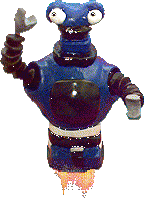
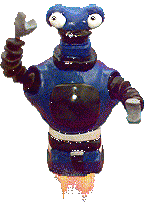
Fidelity fixes from app feedback: bird, hand, robot, wiggle, floor
- Bird at rest is now MORP01 (standing), not a FLY* (flight) frame.
- Hand default points with the leftmost finger (hotspot 0.24w/0.17h),
  arm re-aimed to the wrist from the new anchor; grab pose on press kept.
- Robot wait frames baked pre-aligned to a uniform canvas via each frame's
  registration offset, so the robot no longer shifts/scales while fidgeting
  (anchor stored in the anim spec).
- Selection wiggle now targets the specific node under the hand — a number
  in a box hole or an item on a nest wiggles on its own, not the whole
  container (BoxView.holeNode / NestView.item).
- Floor: hook the renderer 'resize' so it always fills the canvas.

Still limited: the magic wand uses the low-res M22 LEGOWAND (no M25
version); a full context-driven hand state machine is future work.

79 tests pass; typecheck clean.

diff --git a/src/input/drag-controller.ts b/src/input/drag-controller.ts
@@ -28,6 +28,13 @@ import { renderThingDisplay } from '../view/display';
 export type DropResolver = (dragged: Thing, target: Thing | undefined, ctx: DropContext) => void;
 export type TrainStep = (from: number, to: number) => void;
 
+/** A node that's wiggling for selection feedback, plus its resting position. */
+interface WiggleTarget {
+  node: PIXI.Container;
+  bx: number;
+  by: number;
+}
+
 export class DragController {
   private dragging: ThingView | null = null;
   private grabOffset = { x: 0, y: 0 };
@@ -36,10 +43,10 @@ export class DragController {
   private trainGhost: PIXI.Container | null = null;
   /** Last known pointer position, for hover-selection feedback. */
   private pointer = { x: -1, y: -1 };
-  /** The view currently wiggling as selection feedback. */
-  private selectedView: ThingView | null = null;
-  /** Thing under the hand, recomputed only on pointer move (not per frame). */
-  private hoverView: ThingView | null = null;
+  /** The node currently wiggling + its base position, for settling. */
+  private activeTarget: WiggleTarget | null = null;
+  /** Hover wiggle target, recomputed on pointer move (not per frame). */
+  private hoverTarget: WiggleTarget | null = null;
 
   constructor(
     private readonly world: World,
@@ -68,30 +75,54 @@ export class DragController {
    * right → down → left → up every 100ms (sprite.cpp selection_delta_x/y).
    */
   private tickWiggle = (): void => {
-    const sel: ThingView | null = this.dragging ?? this.hoverView;
-    if (this.selectedView && this.selectedView !== sel && !this.selectedView.container.destroyed) {
-      this.selectedView.syncPosition(); // settle the previous selection
+    const target: WiggleTarget | null = this.dragging
+      ? { node: this.dragging.container, bx: this.dragging.thing.x, by: this.dragging.thing.y }
+      : this.hoverTarget;
+    const prev = this.activeTarget;
+    if (prev && prev.node !== target?.node && !prev.node.destroyed) {
+      prev.node.position.set(prev.bx, prev.by); // settle the previous selection
     }
-    this.selectedView = sel;
-    if (!sel || sel.container.destroyed) return;
+    this.activeTarget = target;
+    if (!target || target.node.destroyed) return;
     const D = 2;
     const phase = Math.floor((performance.now() % 400) / 100);
     const dx = phase === 0 ? D : phase === 2 ? -D : 0;
     const dy = phase === 1 ? D : phase === 3 ? -D : 0;
-    sel.container.position.set(sel.thing.x + dx, sel.thing.y + dy);
+    target.node.position.set(target.bx + dx, target.by + dy);
   };
 
-  /** Recompute the hovered thing (the wiggle target). Cheap per move, not per frame. */
-  private updateHover(): void {
+  /** Recompute the hovered wiggle target. Cheap per move, not per frame. */
+  private updateHoverTarget(): void {
     if (this.dragging || this.trainer.active) {
-      this.hoverView = null;
+      this.hoverTarget = null;
       return;
     }
     const hit = this.world.topAt(this.pointer, (thing, p) => {
       const v = this.views.get(thing.id);
       return v ? v.containsPoint(p.x, p.y) : false;
     });
-    this.hoverView = hit ? this.views.get(hit.id) ?? null : null;
+    this.hoverTarget = hit ? this.computeTarget(hit) : null;
+  }
+
+  /**
+   * The wiggle target for a hovered thing: a number inside a box hole (or an
+   * item on a nest) wiggles on its own, not the whole container.
+   */
+  private computeTarget(hit: Thing): WiggleTarget | null {
+    const view = this.views.get(hit.id);
+    if (!view) return null;
+    if (hit instanceof Box && view instanceof BoxView) {
+      const i = view.holeIndexAt(this.pointer.x, this.pointer.y);
+      if (i != null && !hit.isHoleEmpty(i)) {
+        const hn = view.holeNode(i);
+        if (hn) return { node: hn.node, bx: hn.x, by: hn.y };
+      }
+    } else if (hit instanceof Nest && view instanceof NestView) {
+      if (view.pressedOnItem(this.pointer.x, this.pointer.y) && view.item) {
+        return { node: view.item, bx: 0, by: 0 };
+      }
+    }
+    return { node: view.container, bx: hit.x, by: hit.y };
   }
 
   /**
@@ -203,7 +234,7 @@ export class DragController {
 
   private onPointerMove = (e: PIXI.FederatedPointerEvent): void => {
     this.pointer = { x: e.global.x, y: e.global.y };
-    this.updateHover();
+    this.updateHoverTarget();
     if (this.trainer.active) {
       if (this.trainGhost) this.trainGhost.position.set(e.global.x, e.global.y);
       return;

diff --git a/src/view/animation.ts b/src/view/animation.ts
@@ -15,10 +15,13 @@ interface AnimSpec {
   frames: number;
   /** Milliseconds per frame (from the .TTS cycle). */
   frameMs: number;
+  /** Centre/registration anchor (frames are baked pre-aligned to this). */
+  anchor: [number, number];
 }
 
 const ANIMATIONS: AnimSpec[] = [
-  { name: 'robot-wait', frames: 12, frameMs: 200 }, // ROBOT.TTS cycle 13 (idle fidget)
+  // ROBOT.TTS cycle 13 (idle fidget); frames baked to a uniform 161x207 canvas.
+  { name: 'robot-wait', frames: 12, frameMs: 200, anchor: [0.416, 0.406] },
 ];
 
 const specs = new Map<string, AnimSpec>(ANIMATIONS.map((a) => [a.name, a]));
@@ -58,7 +61,7 @@ export function makeIdleSprite(name: string, restMs = 2600): PIXI.AnimatedSprite
   const spec = specs.get(name);
   if (!texs || texs.length === 0 || !spec) return null;
   const sprite = new PIXI.AnimatedSprite(texs);
-  sprite.anchor.set(0.5);
+  sprite.anchor.set(spec.anchor[0], spec.anchor[1]);
   // PIXI advances `animationSpeed` frames per shared-ticker tick (~60fps).
   sprite.animationSpeed = 1000 / spec.frameMs / 60;
   sprite.loop = false;

diff --git a/src/view/box-view.ts b/src/view/box-view.ts
@@ -12,9 +12,13 @@ const CELL = 64;
 const GAP = 8;
 
 export class BoxView extends ThingView {
+  /** Per-hole content node + its layout position, for selection wiggle. */
+  private holeNodes: Array<{ node: PIXI.Container; x: number; y: number } | null> = [];
+
   protected build(): void {
     const box = this.thing as Box;
     const n = box.size;
+    this.holeNodes = new Array(n).fill(null);
     const totalW = n * CELL + (n - 1) * GAP;
     const left = -totalW / 2;
 
@@ -58,8 +62,14 @@ export class BoxView extends ThingView {
         const node = renderThingDisplay(occupant, this.textures, this.theme, CELL - 12);
         node.position.set(cx, 0);
         this.container.addChild(node);
+        this.holeNodes[i] = { node, x: cx, y: 0 };
       }
     }
+  }
+
+  /** The content node of a filled hole + its base position (for wiggle), or null. */
+  holeNode(i: number): { node: PIXI.Container; x: number; y: number } | null {
+    return this.holeNodes[i] ?? null;
   }
 
   /** Index of the hole under a world-space point, or null if none. */

diff --git a/src/view/room.ts b/src/view/room.ts
@@ -54,7 +54,9 @@ interface PoseSpec {
   top: number;
 }
 const HAND_POSES: Record<HandPose, PoseSpec> = {
-  open: { key: 'hand', anchor: [0.5, 0.16], scale: 1.15, cx: 0.18, w: 0.32, top: 0.72 },
+  // Default: point with the leftmost finger — hotspot at that fingertip (0.24w,
+  // 0.17h). The wrist stub is at ~0.68w, so the sleeve sits 0.44w right of it.
+  open: { key: 'hand', anchor: [0.24, 0.17], scale: 1.15, cx: 0.44, w: 0.32, top: 0.74 },
   grab: { key: 'hand-grab', anchor: [0.5, 0.2], scale: 1.2, cx: 0.24, w: 0.41, top: 0.62 },
 };
 
@@ -97,6 +99,10 @@ export class Room {
     stage.on('pointerdown', () => this.setPose('grab'));
     stage.on('pointerup', () => this.setPose('open'));
     stage.on('pointerupoutside', () => this.setPose('open'));
+
+    // Keep the floor + chrome covering the whole canvas on any renderer resize
+    // (fires on the initial auto-resize too, so the floor always fills the tab).
+    renderer.app.renderer.on('resize', () => this.resize());
   }
 
   private pose: HandPose = 'open';

diff --git a/src/view/nest-view.ts b/src/view/nest-view.ts
@@ -11,6 +11,11 @@ import { renderThingDisplay } from './display';
 export class NestView extends ThingView {
   private itemNode: PIXI.Container | null = null;
 
+  /** The delivered item's display node (centred at the nest), for wiggle. */
+  get item(): PIXI.Container | null {
+    return this.itemNode;
+  }
+
   /** True if a world-space point falls on the delivered item (for grabbing it). */
   pressedOnItem(worldX: number, worldY: number): boolean {
     if (!this.itemNode) return false;

diff --git a/CLAUDE.md b/CLAUDE.md
@@ -118,7 +118,9 @@ divergence/simplification in our current code, ▢ = not yet implemented.
   labels, fine).
 - **Birds & nests** (`bird.htm`): ⚠ a bird **stacks** deliveries on the nest (we
   show latest + count). ✅ a delivered thing now **fully covers** the nest
-  (centered, scaled up via `renderThingDisplay(..., { scaleUp: true })`). ▢ copying a *nest* makes the bird copy itself to deliver
+  (centered, scaled up via `renderThingDisplay(..., { scaleUp: true })`). The
+  resting bird is **MORP01** (standing) — `bird.png`; FLY* frames are flight only.
+  ▢ copying a *nest* makes the bird copy itself to deliver
   to both nests; ▢ combining nests (drop nest on nest); ▢ eggs hatch into birds;
   ▢ a nest saved without its bird reloads as a fresh egg → new bird. Birds/nests
   are ToonTalk's inter-process channel (a robot waits for a bird to fill a nest).
@@ -192,8 +194,10 @@ The thing under the hand (or being held) wiggles as selection feedback —
 `tickWiggle` in drag-controller.ts, on the PIXI ticker. Faithful to the original
 (`sprite.cpp` `selection_delta_x/y`): a **2px circular offset** stepping right →
 down → left → up every 100ms (400ms loop). The previous selection is settled via
-`syncPosition`. The wiggle hit-test runs on pointer-move (cached in `hoverView`),
-not per frame.
+`syncPosition`. The hit-test runs on pointer-move (not per frame). The wiggle
+targets the **specific node** under the hand — a number inside a box hole, or an
+item on a nest, wiggles on its own (BoxView.holeNode / NestView.item), not the
+whole container.
 
 ## Frame-based sprite animation
 
@@ -203,8 +207,11 @@ PIXI `AnimatedSprite`s on the shared ticker. `makeIdleSprite(name)` plays the
 cycle then rests on frame 0 for ~2.6s before fidgeting again (periodic idle, more
 faithful than a constant loop). Wired: **robot** uses `robot-wait` (ROBOT.TTS
 cycle 13, 12 frames @200ms). Add an element by converting its frames + adding a
-spec to `ANIMATIONS`. ▢ Remaining elements (bird flight, nest hatch, dusty suck,
-bomb fuse, hand/toolbox) are mechanical follow-ups.
+spec to `ANIMATIONS`. **Frames are baked pre-aligned** to a uniform canvas using
+each frame's registration offset (`-ox,-oy` from the manifest) so the element
+doesn't shift/scale during the cycle — the spec stores the resulting `anchor`.
+▢ Remaining elements (bird flight, nest hatch, dusty suck, bomb fuse) are
+mechanical follow-ups.
 
 **Tooling note:** the preview screenshot tool can become unresponsive (30s
 timeouts) during long sessions even when the app is healthy (eval still works).
